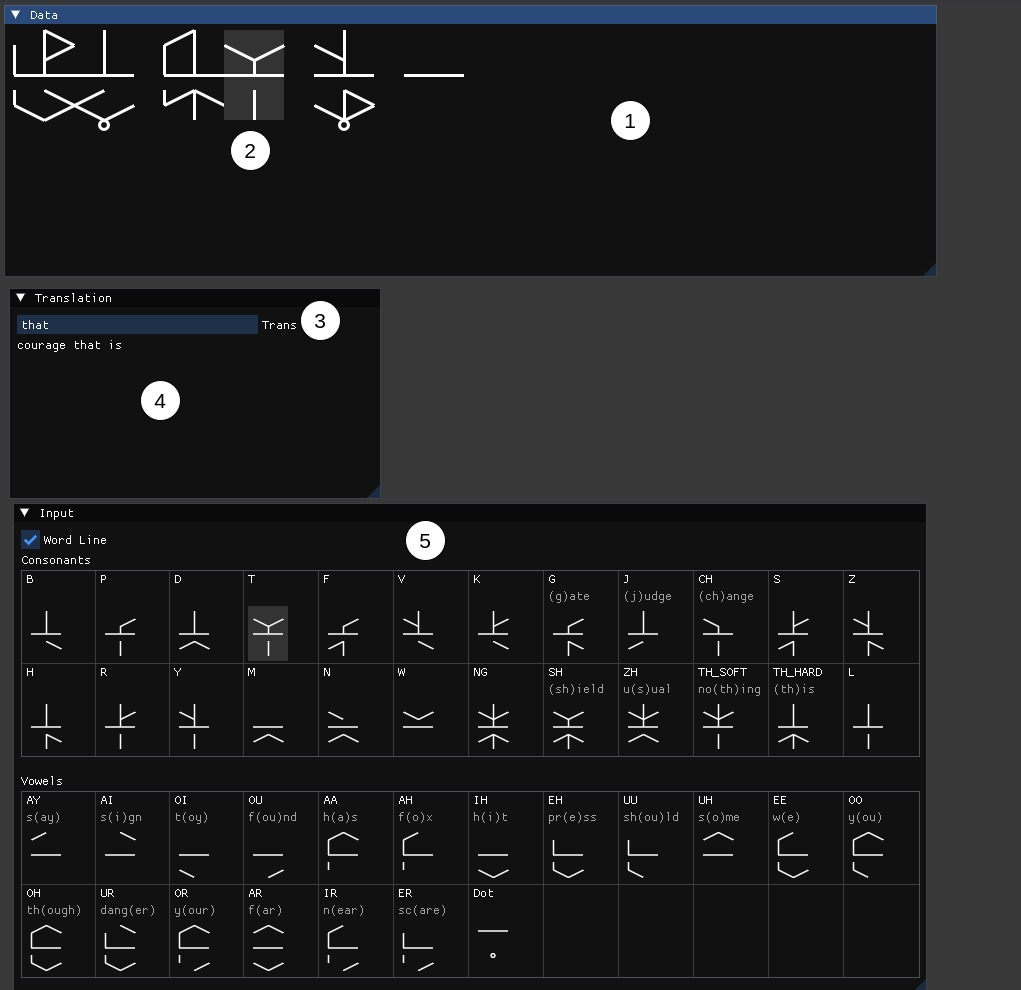
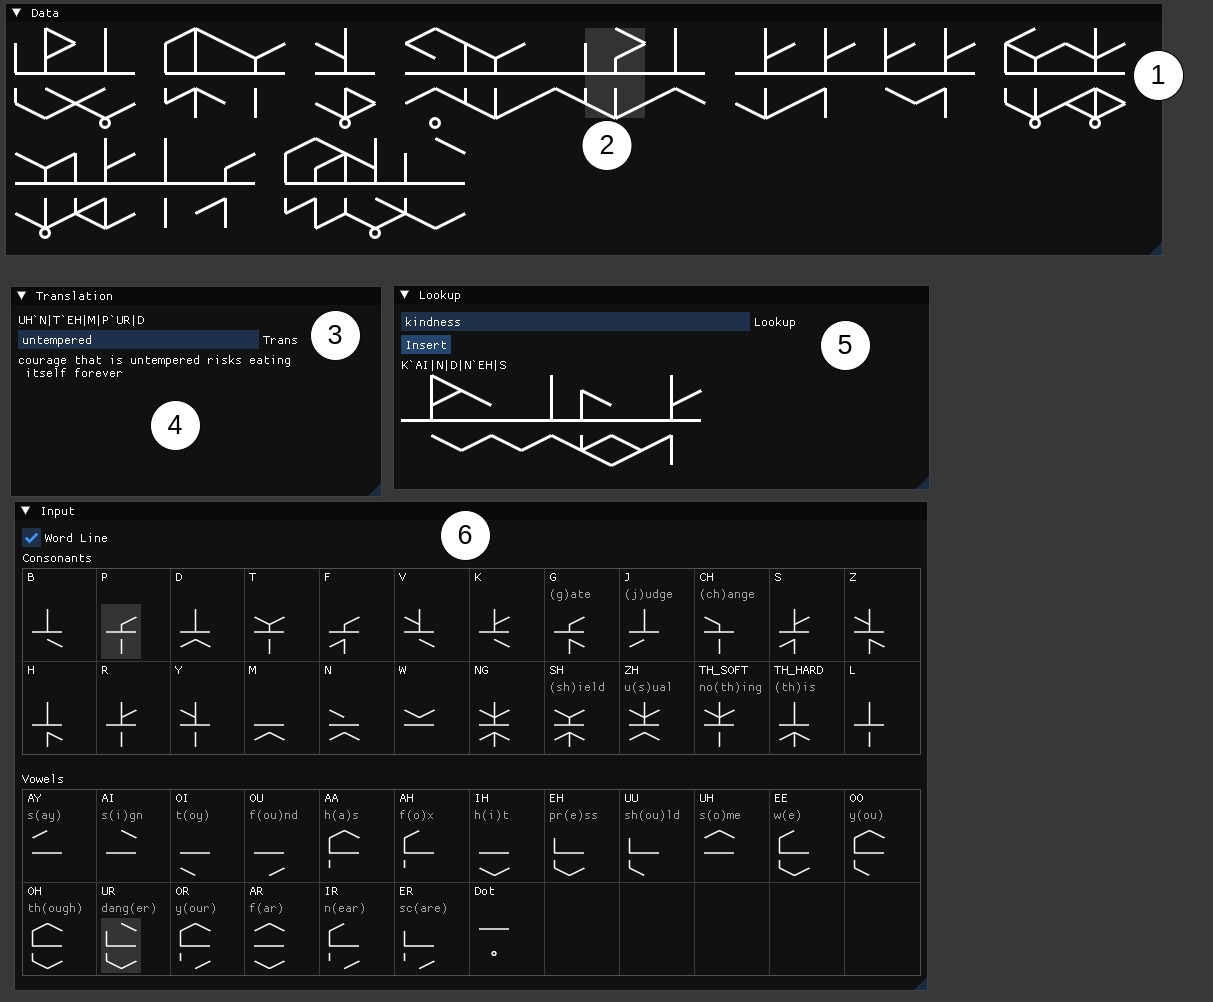
spacing fixes. update readme

diff --git a/tunic.py b/tunic.py
@@ -127,7 +127,7 @@ class State:
             for wIdx, word in enumerate(self.words):
                 if pos.x + len(word.glyphs) * GLYPH_TOTAL_X > wPos.x + wSize.x:
                     pos.x = wPos.x + 10
-                    pos.y += GLYPH_TOTAL_Y + 15
+                    pos.y += GLYPH_TOTAL_Y + 20
                     text.append("\n")
                 if len(word.value) == 0:
                     text.append(word.getSoundStr())

diff --git a/README.md b/README.md
@@ -16,6 +16,7 @@ Legend:
 2. Selected character/word
 3. Selected word translation
 4. Full translated text
-5. Character select
+5. Translated word lookup (press enter to insert)
+6. Character editor
 
 Translated words are stored in a local sqlite db.
